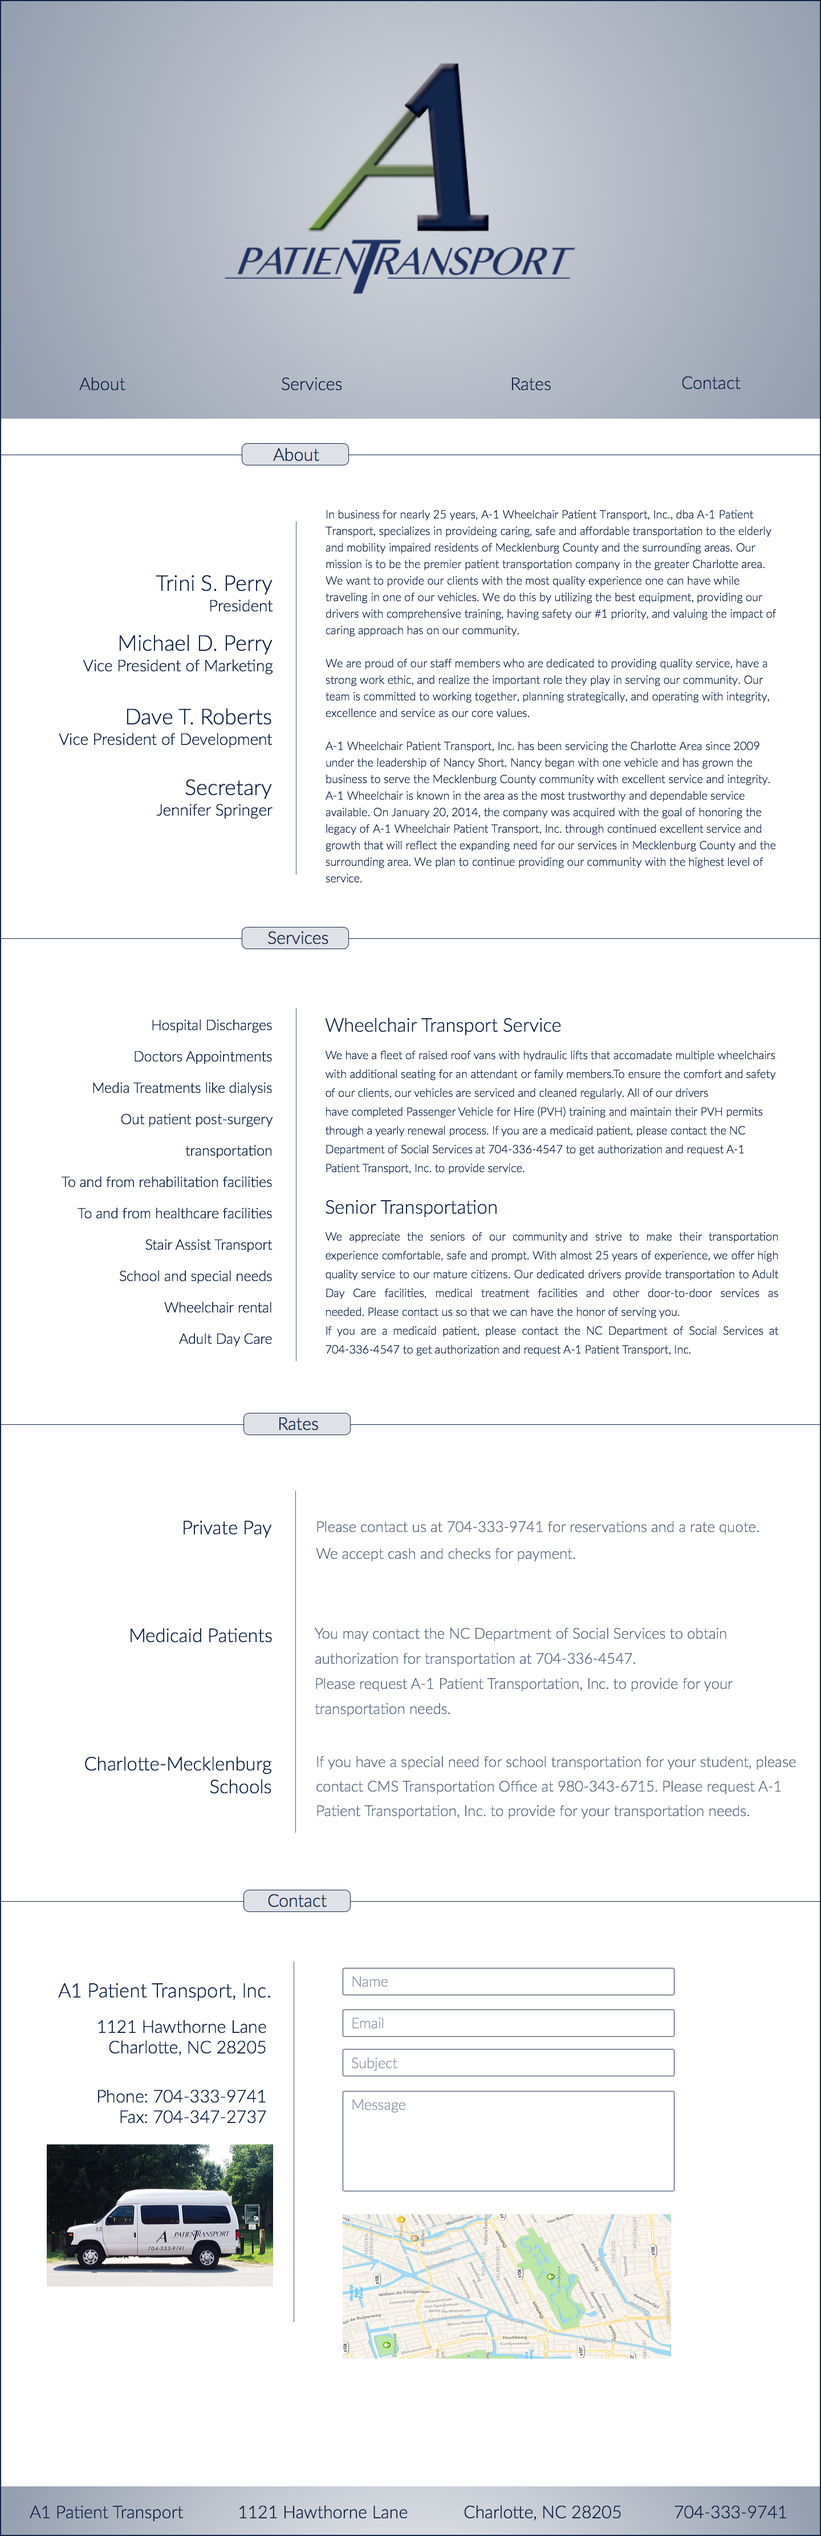
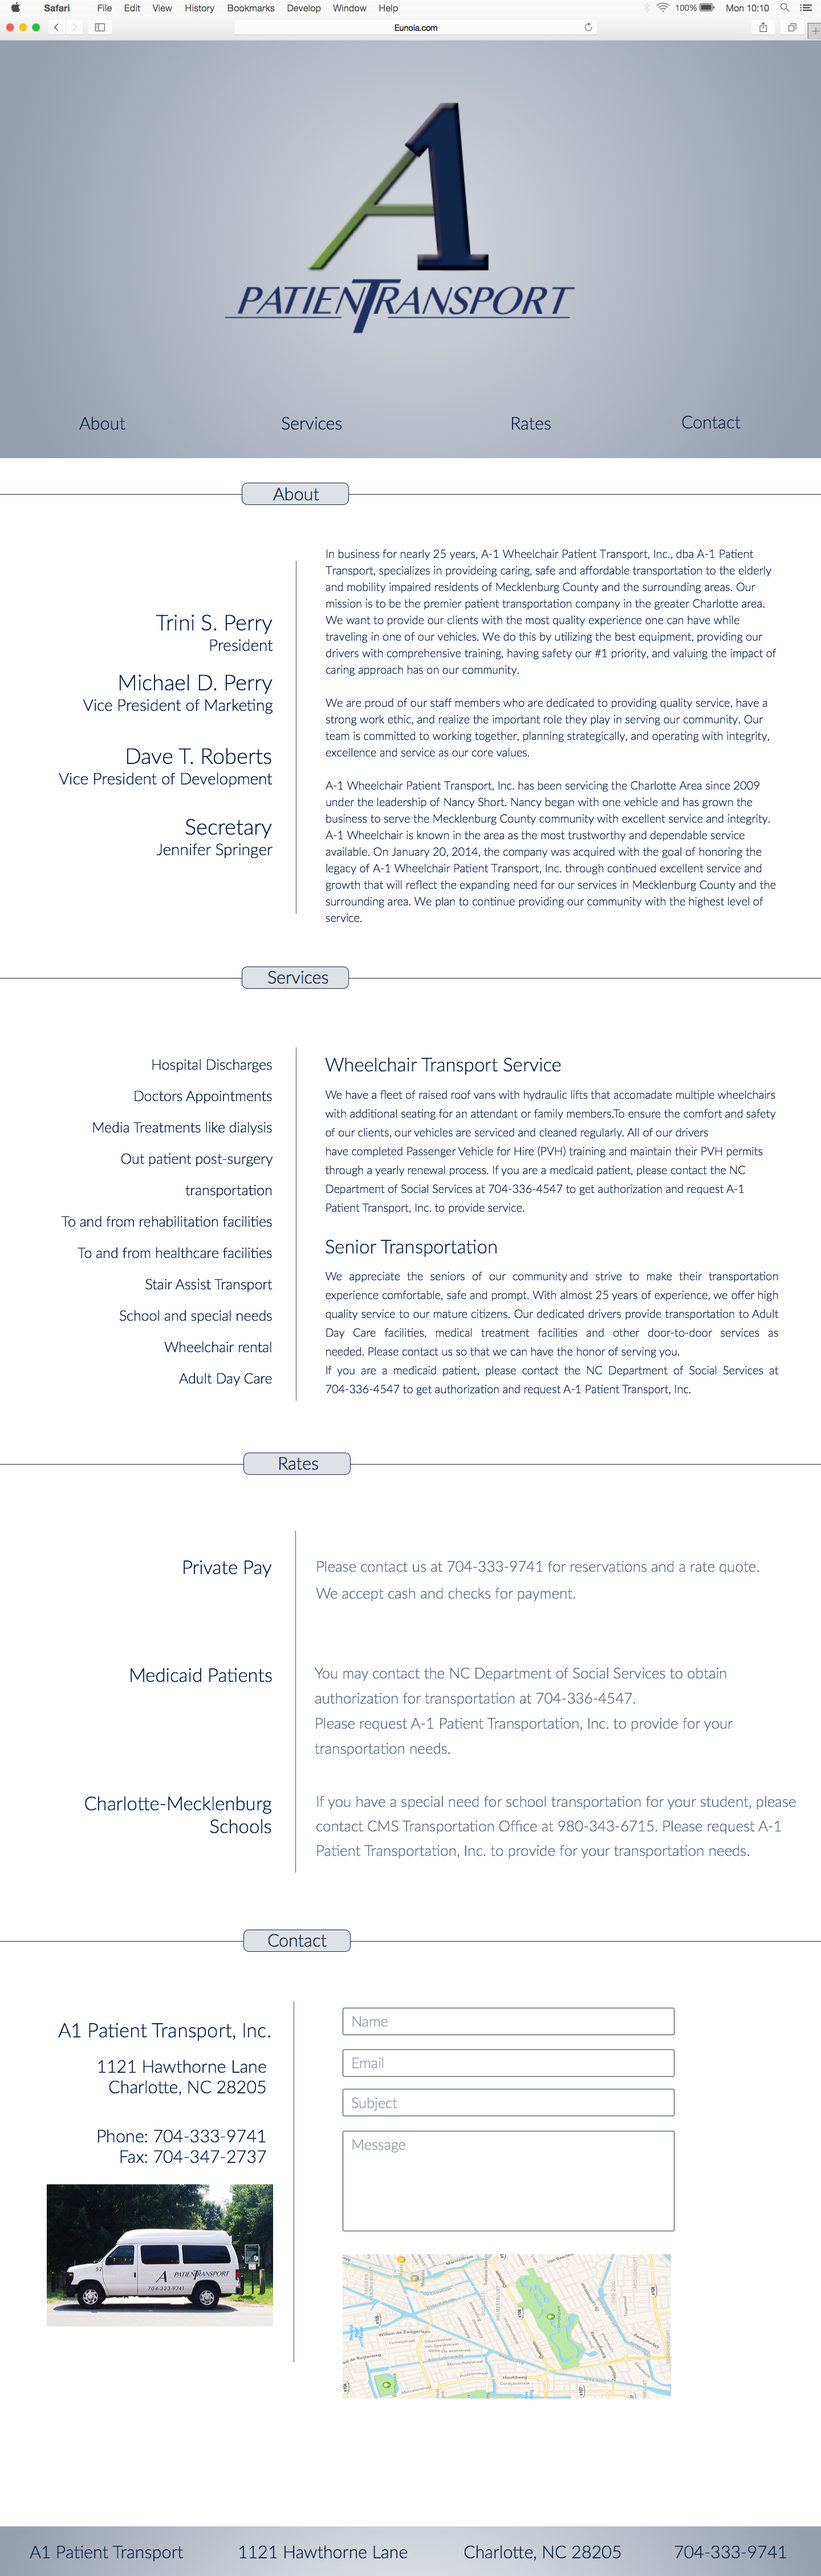
A1 Redesign Scroll

diff --git a/website.html b/website.html
@@ -36,10 +36,29 @@
   </div>
   <div class="col-lg-12">
     <p class="title01">Roomie\Splittr Landing Page</p>
+    <p class="title02">(Scroll)</p>
   </div>
   <div class="col-lg-12">
     <div class="window">
     <img class="img-responsive portfolio" src="images/RoomieLanding.png">
+    </div>
+  </div>
+</div>
+
+<hr>
+
+<div class="container">
+  <div class="col-lg-12">
+    <p class="title01">A1 Patient Transport Website Redesign</p>
+  </div>
+  <div class="col-lg-6">
+    <div class="window1">
+      <img class="img-responsive" src="images/OldA1.png">
+    </div>
+  </div>
+  <div class="col-lg-6">
+    <div class="window1">
+      <img class="img-responsive" src="images/A1Redesign.png">
     </div>
   </div>
 </div>
@@ -67,20 +86,6 @@
   </div>
   <div class="col-lg-6">
     <img class="img-responsive" src="images/mensa_after_mac.png">
-  </div>
-</div>
-
-<hr>
-
-<div class="container">
-  <div class="col-lg-12">
-    <p class="title01">A1 Patient Transport Website Redesign</p>
-  </div>
-  <div class="col-lg-6">
-    <img class="img-responsive" src="images/OldA1.png">
-  </div>
-  <div class="col-lg-6">
-    <img class="img-responsive" src="images/A1Redesign.png">
   </div>
 </div>
 

diff --git a/stylesheets/website.css b/stylesheets/website.css
@@ -5,6 +5,13 @@
   margin: auto;
 }
 
+.window1 {
+  height: 500px;
+  overflow: auto;
+  margin: auto;
+  border: 1px solid gray;
+}
+
 .title11 {
   margin-bottom: 20px;
   font-family: 'Lato', sans-serif;
